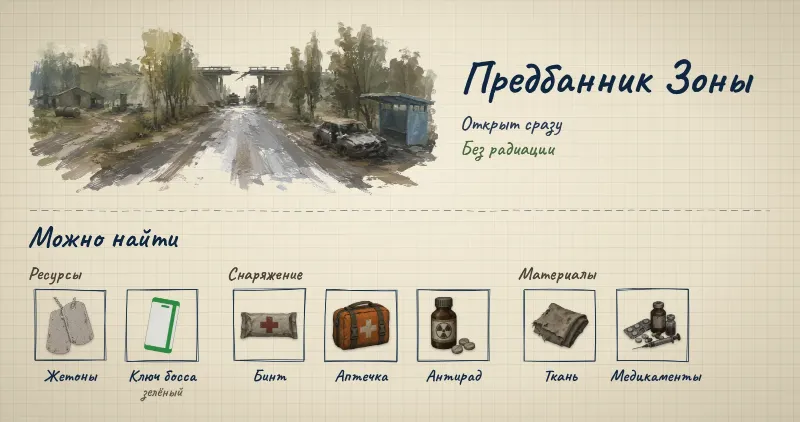
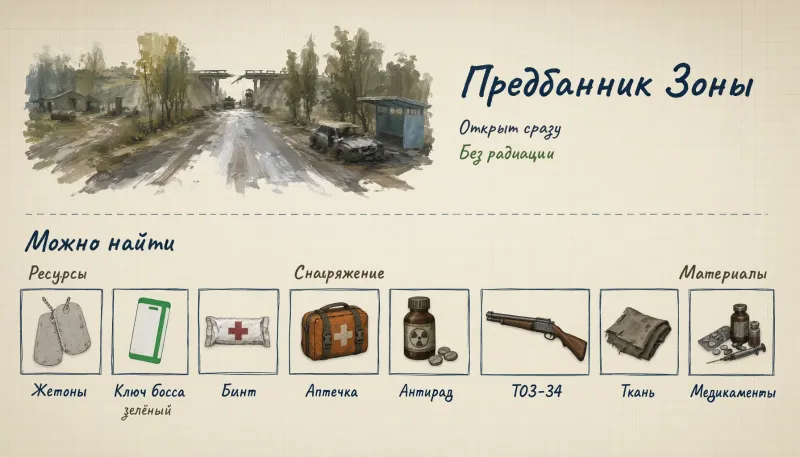
Добавить ТОЗ-34 в награды Предбанника в гайде «Вылазки»
После обновления игры 14.11 ружьё ТОЗ-34 попадает в находки Предбанника:
оно добавлено в список «Можно найти» и в «Куда ходить», а на иллюстрации
района появилась плитка с ружьём в том же рисованном стиле. Копия -800w
пересобрана. В «Новостях сайта» - запись об обновлении наград.

Changed region(s): [[0.0, 0.4929, 0.9688, 0.955], [0.0312, 0.0616, 0.9375, 0.4929], [0.0625, 0.4621, 0.0938, 0.4929]]

diff --git a/guides/vylazki/index.md b/guides/vylazki/index.md
@@ -34,7 +34,7 @@ description: Как устроены вылазки (бывшие экспеди
 Южная окраина с заброшенными хуторами, железнодорожной насыпью и военными кордонами. Самый спокойный район: открыт сразу и без радиации.
 
 - **Враги:** слепые псы, кабаны, бандиты, плоть, крысы, изредка солдат.
-- **Можно найти:** жетоны, бинт, аптечку, антирад, ткань, медикаменты и **зелёный ключ босса** - он нужен для боя с Альфа-псом (подробнее на вкладке [«Боссы»](/info-bosses)).
+- **Можно найти:** жетоны, бинт, аптечку, антирад, ткань, медикаменты, ружьё **ТОЗ-34** и **зелёный ключ босса** - он нужен для боя с Альфа-псом (подробнее на вкладке [«Боссы»](/info-bosses)).
 - **За возвращение:** +60 опыта и +25 репутации.
 - **В среднем за вылазку:** 2 жетона (от 0 до 5), 1,2 зелёного ключа (от 0 до 3) и 1,8 предмета. Три ключа на бой с Альфа-псом набираются примерно за 2-3 вылазки.
 
@@ -145,7 +145,7 @@ description: Как устроены вылазки (бывшие экспеди
 
 ## Куда ходить
 
-- **Предбанник Зоны** - за зелёными ключами для Альфа-пса и материалами. Почти без риска и мало патронов.
+- **Предбанник Зоны** - за зелёными ключами для Альфа-пса, ружьём ТОЗ-34 и материалами. Почти без риска и мало патронов.
 - **Дорога на Север** - вдвое больше жетонов, предметы коллекций, гранатомётные выстрелы и фиолетовые ключи для Болотной твари. Стоит антирада, пары бинтов и около тысячи патронов.
 - **Пути диггеров** - комплект «Копатель», синие ключи для Борова, гранаты и «Взломы PDA».
 
